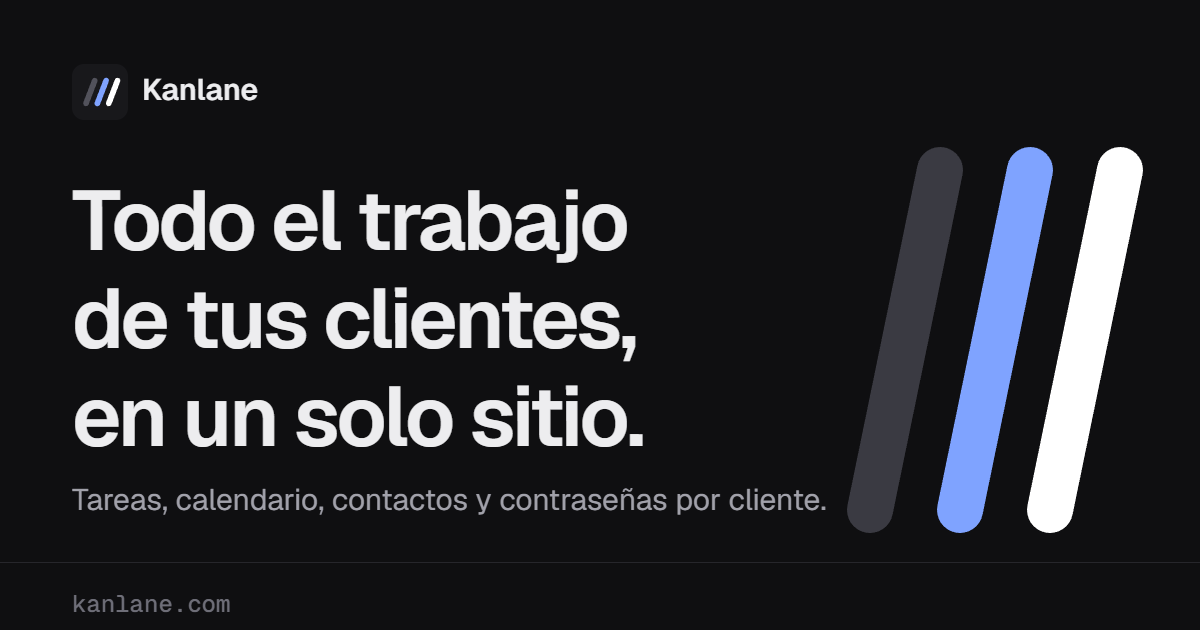
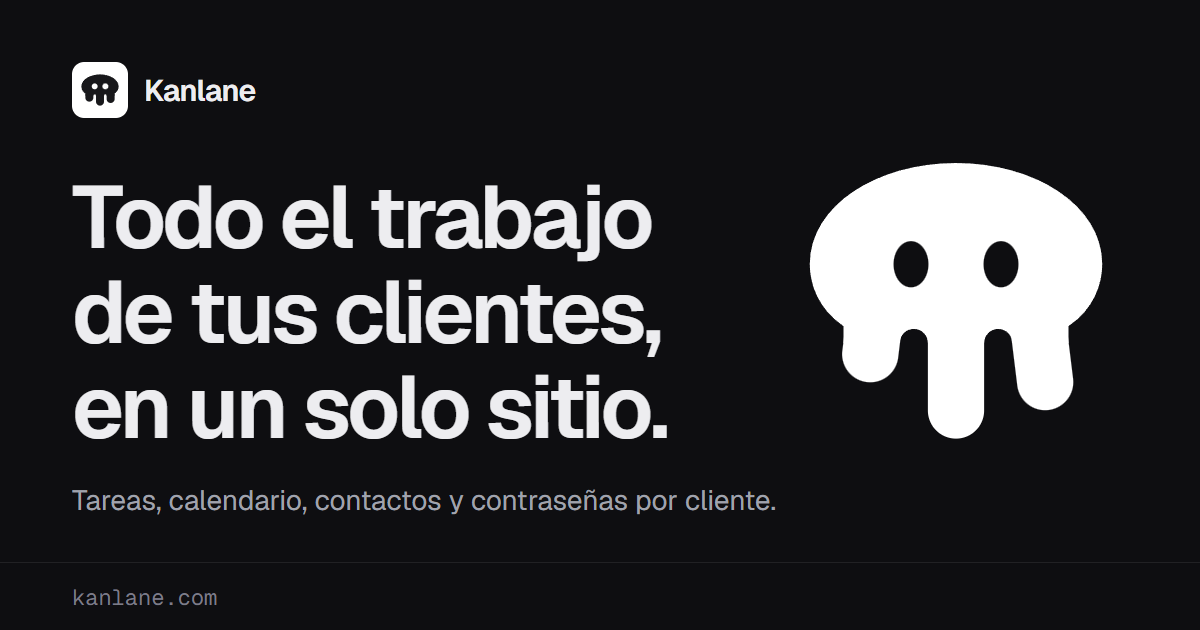
Sumi: fiesta al completarlo todo, temporadas, calendario vacío e imagen para redes
- Al completar la última tarea que quedaba, aviso «Todo completado» con el
  gesto de fiesta.
- Temporadas: el Sumi suelto lleva un detalle de la estación de la app
  (flor, sol, hoja o copo). Nunca el logotipo, los iconos ni la versión
  reducida.
- Calendario: el día sin nada programado muestra a Sumi dormido.
- scripts/make-og.js genera assets/img/og-image.png con Sumi.
- en.js: se quita una clave duplicada («Nada pendiente»).

diff --git a/src/views/sumi.js b/src/views/sumi.js
@@ -19,6 +19,13 @@
   const ARM_TOP = 34;    /* los brazos empiezan dentro del cuerpo… */
   const ARM_ROOT = 40;   /* …y asoman a esta altura; los de fuera giran aquí, para que la unión quede lisa */
   const SPLAY = 7;       /* grados que se abren los brazos de fuera (la versión reducida, 0) */
+  /* Un detalle por estación, arriba a la derecha y en la tinta del cuerpo. {c} es ese color. */
+  const SEASONS = {
+    spring: '<g fill="{c}"><circle cx="54" cy="4.2" r="1.9"/><circle cx="56.7" cy="6.2" r="1.9"/><circle cx="55.7" cy="9.4" r="1.9"/><circle cx="52.3" cy="9.4" r="1.9"/><circle cx="51.3" cy="6.2" r="1.9"/></g>',
+    summer: '<circle cx="54" cy="7" r="2.6" fill="{c}"/><path d="M54 .8v1.4M54 11.8v1.4M47.8 7h1.4M58.8 7h1.4M49.6 2.6l1 1M57.4 10.4l1 1M58.4 2.6l-1 1M50.6 10.4l-1 1" fill="none" stroke="{c}" stroke-width="1.6" stroke-linecap="round"/>',
+    autumn: '<path d="M49.5 11Q49 3 58.5 2.5Q59 11 49.5 11Z" fill="{c}"/><path d="M49.5 11l-2 2" fill="none" stroke="{c}" stroke-width="1.6" stroke-linecap="round"/>',
+    winter: '<path d="M54 1.5v11M49.2 4.2l9.6 5.6M58.8 4.2l-9.6 5.6" fill="none" stroke="{c}" stroke-width="1.7" stroke-linecap="round"/>'
+  };
   const MOODS = ['normal', 'contento', 'guino', 'aviso', 'concentrado', 'dormido', 'triste', 'fiesta', 'cerrado'];
 
   function geometry(mini){
@@ -86,6 +93,9 @@
      - body: color del cuerpo ('currentColor' si falta).
      - eye: color de los ojos. Si falta, los ojos se RECORTAN y asoma lo que haya detrás, sea
        lo que sea (cristal, velo, una tarjeta).
+     - season: 'spring' | 'summer' | 'autumn' | 'winter' añade el detalle de esa estación; false lo
+       quita. Si falta, se usa la estación de la aplicación (<html data-season>). Nunca lo llevan
+       el logotipo, los iconos ni la versión reducida, ni los gestos que ya ocupan esa esquina.
      - bg: color de un cuadrado de fondo con las esquinas a 14; Sumi ocupa entonces el 62 % del
        ancho. Con bg hay que dar también eye (normalmente el mismo color). */
   function svg(o){
@@ -96,11 +106,15 @@
     const parts = face(o.mood, g, cut ? '#000' : o.eye);
     const shape = '<path d="' + bodyPath(g) + '"/>' + armsMarkup(g);
     const extra = '<path class="sumi-extra" d="' + parts.extra + '" fill="none" stroke="' + body + '" stroke-width="2.2" stroke-linecap="round" stroke-linejoin="round"/>';
+    /* Solo el Sumi suelto y completo: ni el logotipo (lleva eye) ni los iconos (bg) ni el reducido. */
+    const auto = cut && !o.bg && !o.mini && !parts.extra;
+    const season = o.season === false ? '' : (o.season || (auto && root.document ? root.document.documentElement.getAttribute('data-season') : ''));
+    const deco = auto && season && SEASONS[season] ? '<g class="sumi-season">' + SEASONS[season].replace(/\{c\}/g, body) + '</g>' : '';
     let inner;
     if(cut){
       const id = 'sumi-m' + (++serial);
       inner = '<mask id="' + id + '" maskUnits="userSpaceOnUse" x="-8" y="-8" width="80" height="80"><rect x="-8" y="-8" width="80" height="80" fill="#fff"/><g class="sumi-face">' + parts.face + '</g></mask>' +
-        '<g mask="url(#' + id + ')" fill="' + body + '">' + shape + '</g>' + extra;
+        '<g mask="url(#' + id + ')" fill="' + body + '">' + shape + '</g>' + extra + deco;
     } else {
       inner = '<g fill="' + body + '">' + shape + '</g><g class="sumi-face">' + parts.face + '</g>' + extra;
     }
@@ -132,6 +146,9 @@
     const f = el.querySelector('.sumi-face'), x = el.querySelector('.sumi-extra');
     if(f) f.innerHTML = parts.face;
     if(x) x.setAttribute('d', parts.extra);
+    /* La zeta y los destellos ocupan la esquina del detalle de temporada. */
+    const s = el.querySelector('.sumi-season');
+    if(s) s.style.display = parts.extra ? 'none' : '';
   }
 
   /* Reproduce una vez un movimiento: wink, look, dip, wave, nod o pop. */

diff --git a/scripts/make-og.js b/scripts/make-og.js
@@ -1,0 +1,58 @@
+#!/usr/bin/env node
+/* Genera la imagen para redes (assets/img/og-image.png, 1200 × 630) con Sumi y el nombre.
+   Necesita un navegador: usa el Playwright de tests/e2e con Chrome o Edge instalados
+   (CHROME_PATH para otro). No es un paso de publicación: el resultado se guarda en el
+   repositorio, como los iconos de scripts/make-icons.js.
+
+     npm ci --prefix tests/e2e     (una vez)
+     node scripts/make-og.js */
+'use strict';
+const fs = require('fs');
+const path = require('path');
+const {pathToFileURL} = require('url');
+const sumi = require('../src/views/sumi.js');
+
+const root = path.join(__dirname, '..');
+const {chromium} = require(path.join(root, 'tests/e2e/node_modules/playwright'));
+const chrome = process.env.CHROME_PATH || [
+  'C:/Program Files/Google/Chrome/Application/chrome.exe',
+  'C:/Program Files (x86)/Microsoft/Edge/Application/msedge.exe'
+].find((candidate) => fs.existsSync(candidate));
+
+const font = (file) => pathToFileURL(path.join(root, 'assets/fonts', file)).href;
+const GRAFITO = '#18181B', BLANCO = '#FFFFFF', FONDO = '#0E0E11';
+
+const html = `<!doctype html><html lang="es"><head><meta charset="utf-8"><style>
+@font-face{font-family:Geist;src:url("${font('Geist-Variable.woff2')}") format("woff2");font-weight:100 900;}
+@font-face{font-family:"Geist Mono";src:url("${font('GeistMono-Variable.woff2')}") format("woff2");font-weight:100 900;}
+*{box-sizing:border-box;margin:0}
+body{width:1200px;height:630px;background:${FONDO};color:#EDEDF0;font-family:Geist,sans-serif;-webkit-font-smoothing:antialiased;position:relative;overflow:hidden}
+.brand{position:absolute;left:72px;top:62px;display:flex;align-items:center;gap:16px;font-size:30px;font-weight:620;letter-spacing:-.025em}
+.brand svg{width:56px;height:56px}
+h1{position:absolute;left:72px;top:170px;font-size:88px;font-weight:620;line-height:1.08;letter-spacing:-.04em}
+p{position:absolute;left:72px;top:482px;font-size:28px;color:#A0A3AD}
+.sumi-big{position:absolute;right:64px;top:118px;width:360px;height:360px}
+.foot{position:absolute;left:0;right:0;bottom:0;height:68px;border-top:1px solid rgba(255,255,255,.08);padding:20px 72px;font-family:"Geist Mono",monospace;font-size:22px;color:#7C7C87}
+</style></head><body>
+<div class="brand">${sumi.svg({mini: true, bg: BLANCO, body: GRAFITO, eye: BLANCO})}Kanlane</div>
+<h1>Todo el trabajo<br>de tus clientes,<br>en un solo sitio.</h1>
+<p>Tareas, calendario, contactos y contraseñas por cliente.</p>
+${sumi.svg({body: BLANCO, eye: FONDO, cls: 'sumi-big'})}
+<div class="foot">kanlane.com</div>
+</body></html>`;
+
+(async () => {
+  const browser = await chromium.launch({headless: true, ...(chrome ? {executablePath: chrome} : {})});
+  const page = await browser.newPage({viewport: {width: 1200, height: 630}, deviceScaleFactor: 1});
+  const tmp = path.join(root, 'assets/img/.og-tmp.html');
+  fs.writeFileSync(tmp, html);
+  try{
+    await page.goto(pathToFileURL(tmp).href);
+    await page.evaluate(() => document.fonts.ready);
+    await page.screenshot({path: path.join(root, 'assets/img/og-image.png'), type: 'png'});
+  } finally {
+    fs.unlinkSync(tmp);
+    await browser.close();
+  }
+  console.log('assets/img/og-image.png');
+})().catch((err) => { console.error(err); process.exit(1); });

diff --git a/src/controllers/tasks-controller.js b/src/controllers/tasks-controller.js
@@ -130,7 +130,15 @@
       const before = this.tasks.find(id);
       const oldStatus = before && before.status;
       this.tasks.move(id, status, beforeId);
-      if(before && oldStatus !== status && Workhub.models.TaskModel.statusOf(status).done) document.dispatchEvent(new CustomEvent('sumi:done'));
+      if(before && oldStatus !== status && Workhub.models.TaskModel.statusOf(status).done){
+        document.dispatchEvent(new CustomEvent('sumi:done'));
+        /* Era la última que quedaba: Sumi lo celebra una vez. */
+        const TaskModel = Workhub.models.TaskModel;
+        const wasOpen = !TaskModel.statusOf(oldStatus).done;
+        if(wasOpen && this.tasks.items.length > 1 && this.tasks.items.every((t) => t.id === id || TaskModel.isDone(t))){
+          toast.success(Workhub.t('Todo completado. No queda nada pendiente.'), {important:true, mood:'fiesta', duration:5000});
+        }
+      }
       if(before) this.logActivity(id, oldStatus === status ? 'ordenó la tarea' : 'movió la tarea a «' + Workhub.models.TaskModel.statusOf(status).raw + '»');
     }
 

diff --git a/src/views/toast-view.js b/src/views/toast-view.js
@@ -47,7 +47,7 @@
     /* Sumi acompaña al texto con el gesto que le toca: triste en un error, contento en una
        confirmación y el normal cuando solo se ofrece una acción. opts.mood lo cambia. */
     const mood = opts.mood || (opts.error ? 'triste' : opts.important ? 'contento' : 'normal');
-    el.innerHTML = Workhub.views.sumi.svg({mini:true, size:26, mood:mood, cls:'toast-sumi is-pop'}) + '<span class="toast-text"></span>';
+    el.innerHTML = Workhub.views.sumi.svg({mini:true, size:mood === 'fiesta' ? 34 : 26, mood:mood, cls:'toast-sumi is-pop'}) + '<span class="toast-text"></span>';
     el.querySelector('.toast-text').textContent = message;
     if(opts.action){
       const btn = document.createElement('button');

diff --git a/assets/css/views/calendar.css b/assets/css/views/calendar.css
@@ -110,6 +110,10 @@
 .cal-day-actions{display:flex;gap:6px;margin-bottom:4px;flex-wrap:wrap;}
 .cal-day-label{font-size:12px;font-weight:500;color:var(--ink-faint);margin:20px 0 4px;}
 .cal-empty{font-size:13px;color:var(--ink-faint);margin:14px 0 2px;}
+/* Día sin nada: Sumi dormido encima del texto. */
+.cal-empty-box{display:flex;flex-direction:column;align-items:center;padding:22px 0 8px;text-align:center;}
+.cal-empty-box .sumi{color:var(--ink);}
+.cal-empty-box .cal-empty{margin:8px 0 0;}
 /* Cada elemento: la hora (o el anillo de estado) a la izquierda y el contenido a la derecha. */
 .agenda-item{
   display:grid;

diff --git a/src/views/calendar-view.js b/src/views/calendar-view.js
@@ -261,7 +261,7 @@
           '<button type="button" class="btn btn-ghost btn-sm" data-action="new-task">' + PLUS_ICON + 'Tarea con esta fecha</button>' +
         '</div>';
       if(!b.meetings.length && !b.tasks.length){
-        html += '<p class="cal-empty">Nada programado este día.</p>';
+        html += '<div class="cal-empty-box">' + Workhub.views.sumi.svg({mood:'dormido', size:56, cls:'is-sleep'}) + '<p class="cal-empty">Nada programado este día.</p></div>';
       }
       if(b.meetings.length){
         html += '<p class="cal-day-label">Reuniones</p>' + b.meetings.map((m) => agendaMeetingHtml(m)).join('');

diff --git a/src/i18n/en.js b/src/i18n/en.js
@@ -784,8 +784,8 @@
     'Esperando al cliente':'Waiting on client',
     'Completada':'Done',
     'Sin tareas':'No tasks',
-    'Nada pendiente':'Nothing pending',
     'Crea una tarea para empezar.':'Create a task to get started.',
+    'Todo completado. No queda nada pendiente.':'All done. Nothing left pending.',
     'Suelta aquí una tarjeta':'Drop a card here',
     'abierta':'open',
     'abiertas':'open',

diff --git a/CONTEXT.md b/CONTEXT.md
@@ -591,7 +591,7 @@ Reglas «cuando pasa algo en una tarea, haz esto», por proyecto, botones de tar
 - **Login** (`assets/css/views/auth.css`): `.auth-top`, `.auth-shell` (hoja de cristal), `.auth-card`, `.auth-aside` con `.auth-preview`, `.auth-guest-row` y `#authPanel.is-guest` (paso «invitado»: oculta proveedores, correo y cambio de modo).
 - **Estado del almacenamiento**: en el pie de la barra lateral (`#storageStatus`) y en Ajustes (`#storageCard`), **sin cajas ni iconos con fondo de color ni insignias** (el usuario pidió que no parezca hecho por una IA y que siga el estilo del repo): solo un `.status-dot` (verde nube, ámbar local, acento Claude, por `data-mode`) y texto; en Ajustes, una fila plana con la descripción y, debajo de una línea fina, la sesión («Sesión iniciada como» + correo) y «Cerrar sesión». Ambos leen `Workhub.views.storageInfo(mode)` (`shell-view.js`). **Criterio de diseño:** filas planas, punto de estado, tipografía sobria; nada de tarjetas dentro de tarjetas, degradados, halos ni cuadraditos de icono tintados.
 - **Barra de desplazamiento de los diálogos** (`dialogs.css`): fina, pulgar redondeado y separado de las esquinas (`::-webkit-scrollbar`); en navegadores sin soporte, `scrollbar-color` estándar (en Chrome reciente esas propiedades anularían el estilo redondeado, por eso van en `@supports not selector(::-webkit-scrollbar)`).
-- **Marca y mascota: Sumi (elegida por el usuario el 7-oct-2026; sustituye al logo «Barras»).** Un pulpo de **tres brazos (corto, largo, medio)** que son los carriles de un tablero; «sumi» es tinta en japonés y, escrito de otra forma, «hecho». **La única definición de la forma es `src/views/sumi.js`** (sirve en el navegador como `Workhub.views.sumi.svg({mood, mini, size, body, eye, bg, title})` y en Node con `require`); de ahí salen los SVG de la marca y `assets/img/favicon.svg` (`node scripts/make-brand.js`) y los PNG de la aplicación instalable (`node scripts/make-icons.js`). **Las normas de uso están en `docs/marca/cuaderno-sumi.html`** (diez normas, tamaños, gestos, mapa de dónde va y dónde no); las que más afectan al código: una sola tinta (blanco o grafito) con los ojos recortados para que asome el fondo; completo desde 32 px y versión reducida (`mini`) por debajo; un Sumi por pantalla sin contar el logotipo; siempre junto a un texto que ya lo dice todo (por eso sale con `aria-hidden`); se mueve una vez y termina, y respeta `prefers-reduced-motion`; no va dentro de tarjetas, junto a contraseñas ni en diálogos de borrar. **Movimiento** (`assets/css/components/sumi.css` y la segunda mitad de `sumi.js`, expuesta también como `window.KanlaneSumi` para la portada): `setMood(svg, gesto)` cambia la cara sin repintar, `play(svg, 'wink'|'look'|'dip'|'wave'|'nod'|'pop')` reproduce un movimiento una vez, `follow(svg)` hace que los ojos sigan al cursor y `mount(hueco)` pinta un Sumi en cualquier `<span data-sumi="gesto" data-sumi-size data-sumi-class data-sumi-play data-sumi-follow data-sumi-shy="#campo">` (lo hace solo al cargar; `shy` cierra los ojos mientras ese campo tiene el foco). Las clases `.is-alive` (respira y parpadea) e `.is-sleep` son el único movimiento que se repite. Los tres carriles sin Sumi son `.rails` (`.is-run` para cargas). **Dónde está ya:** logotipo de la portada, la aplicación y la demo (`.brand-mark`; al cargar se sustituye por un SVG con piezas móviles que parpadea al pasar el cursor y baja el brazo central al completar una tarea, evento `sumi:done` desde `TasksController.moveWithActivity`); favicon e iconos; cabecera de la portada (asomado a `#heroWin`, sigue el cursor, baja el brazo cuando la tarjeta avanza y se alegra al completarse); cierre de la portada (saluda al entrar en pantalla); acceso (`.auth-sumi`: saluda una vez, sigue el cursor y cierra los ojos en `#authPass`); avisos (`toast-view.js`: triste en errores, contento en confirmaciones, normal con acción; `opts.mood` lo cambia, p. ej. «aviso» en «Sin conexión»); tablero sin ninguna tarea (primera columna, `.empty-col.is-board-empty`); paleta de comandos sin resultados y Clientes vacío (dormido); páginas 404 (aviso, mira a los lados y sigue el cursor). **Pendiente:** «todo completado» (fiesta), temporadas, los carriles como indicador de carga real, calendario vacío e imagen para redes (`og-image.png` sigue con el logo anterior).
+- **Marca y mascota: Sumi (elegida por el usuario el 7-oct-2026; sustituye al logo «Barras»).** Un pulpo de **tres brazos (corto, largo, medio)** que son los carriles de un tablero; «sumi» es tinta en japonés y, escrito de otra forma, «hecho». **La única definición de la forma es `src/views/sumi.js`** (sirve en el navegador como `Workhub.views.sumi.svg({mood, mini, size, body, eye, bg, title})` y en Node con `require`); de ahí salen los SVG de la marca y `assets/img/favicon.svg` (`node scripts/make-brand.js`) y los PNG de la aplicación instalable (`node scripts/make-icons.js`). **Las normas de uso están en `docs/marca/cuaderno-sumi.html`** (diez normas, tamaños, gestos, mapa de dónde va y dónde no); las que más afectan al código: una sola tinta (blanco o grafito) con los ojos recortados para que asome el fondo; completo desde 32 px y versión reducida (`mini`) por debajo; un Sumi por pantalla sin contar el logotipo; siempre junto a un texto que ya lo dice todo (por eso sale con `aria-hidden`); se mueve una vez y termina, y respeta `prefers-reduced-motion`; no va dentro de tarjetas, junto a contraseñas ni en diálogos de borrar. **Movimiento** (`assets/css/components/sumi.css` y la segunda mitad de `sumi.js`, expuesta también como `window.KanlaneSumi` para la portada): `setMood(svg, gesto)` cambia la cara sin repintar, `play(svg, 'wink'|'look'|'dip'|'wave'|'nod'|'pop')` reproduce un movimiento una vez, `follow(svg)` hace que los ojos sigan al cursor y `mount(hueco)` pinta un Sumi en cualquier `<span data-sumi="gesto" data-sumi-size data-sumi-class data-sumi-play data-sumi-follow data-sumi-shy="#campo">` (lo hace solo al cargar; `shy` cierra los ojos mientras ese campo tiene el foco). Las clases `.is-alive` (respira y parpadea) e `.is-sleep` son el único movimiento que se repite. Los tres carriles sin Sumi son `.rails` (`.is-run` para cargas). **Dónde está ya:** logotipo de la portada, la aplicación y la demo (`.brand-mark`; al cargar se sustituye por un SVG con piezas móviles que parpadea al pasar el cursor y baja el brazo central al completar una tarea, evento `sumi:done` desde `TasksController.moveWithActivity`); favicon e iconos; cabecera de la portada (asomado a `#heroWin`, sigue el cursor, baja el brazo cuando la tarjeta avanza y se alegra al completarse); cierre de la portada (saluda al entrar en pantalla); acceso (`.auth-sumi`: saluda una vez, sigue el cursor y cierra los ojos en `#authPass`); avisos (`toast-view.js`: triste en errores, contento en confirmaciones, normal con acción; `opts.mood` lo cambia, p. ej. «aviso» en «Sin conexión»); tablero sin ninguna tarea (primera columna, `.empty-col.is-board-empty`); paleta de comandos sin resultados y Clientes vacío (dormido); páginas 404 (aviso, mira a los lados y sigue el cursor). **También:** al completar la última tarea que quedaba sale el aviso «Todo completado. No queda nada pendiente.» con el gesto de fiesta (`TasksController.moveWithActivity`; solo si hay más de una tarea); el día del calendario sin nada lleva a Sumi dormido (`.cal-empty-box`); **temporadas**: el Sumi suelto y completo lleva solo un detalle de la estación de la aplicación (`<html data-season>`: flor, sol, hoja o copo, en su misma tinta, arriba a la derecha; `season:false` lo quita y nunca lo llevan el logotipo, los iconos, la versión reducida ni los gestos que ocupan esa esquina, dormido y fiesta); la **imagen para redes** `assets/img/og-image.png` se genera con `node scripts/make-og.js` (necesita el Playwright de `tests/e2e` y Chrome o Edge; no es un paso de publicación). **Pendiente:** los tres carriles (`.rails`) como indicador de carga real y la mención de la marca en `README.md`.
 - **Logo anterior** (`assets/img/`): «Barras» (opción J6, elegida por el usuario el 1-oct-2026; sustituido por Sumi). Tres barras diagonales redondeadas que avanzan hacia la derecha, en gris `#52525B`, azul claro `#7FA3FF` y blanco `#FFFFFF`, sobre un cuadrado negro `#18181B` de esquinas redondeadas (`rx="14"` en un `viewBox` de 64): el avance de una tarea por las etapas del tablero. **Solo colores sólidos: sin degradados, sombras, brillos ni transparencias** (criterio expreso del usuario para toda la identidad; el logo anterior, una pila de tarjetas con degradado, se sustituyó por eso). Trazos de 6,5 con `stroke-linecap="round"`: `M16 45l10-26`, `M29 45l10-26`, `M42 45l10-26`. Paleta de marca: azul `#2F6BFF` (acento de la app), negro `#18181B`, blanco y `#7FA3FF`/`#A9C1FF` como azules claros sólidos. Archivos: `favicon.svg` (el principal, en `index.html`; también lo usa la pantalla de acceso, `.brand-logo`), `favicon-32.png` (respaldo) y `apple-touch-icon.png` (180 px, **a sangre y sin esquinas redondeadas**, porque iOS aplica su propia máscara); `<meta name="theme-color">` (sigue el fondo de la app, claro u oscuro, y lo actualiza `src/services/pwa.js`; **nunca el azul de acento**: el usuario no quiere la barra superior del móvil en azul). Para regenerar los PNG: dibujar el SVG en un canvas (32 px con `rx="14"`; 180 px con `rx="0"`) y guardar el resultado. Se valoraron 22 propuestas (W, columnas, pila de tarjetas, H, hexágono, doble V, cuadrícula, órbita, flujo de chevrons…); el usuario eligió la variante «Barras» de la familia «Flujo», que también es la que mejor se lee a 16 px.
 
 ## 6. Plugins (sistema completo)
